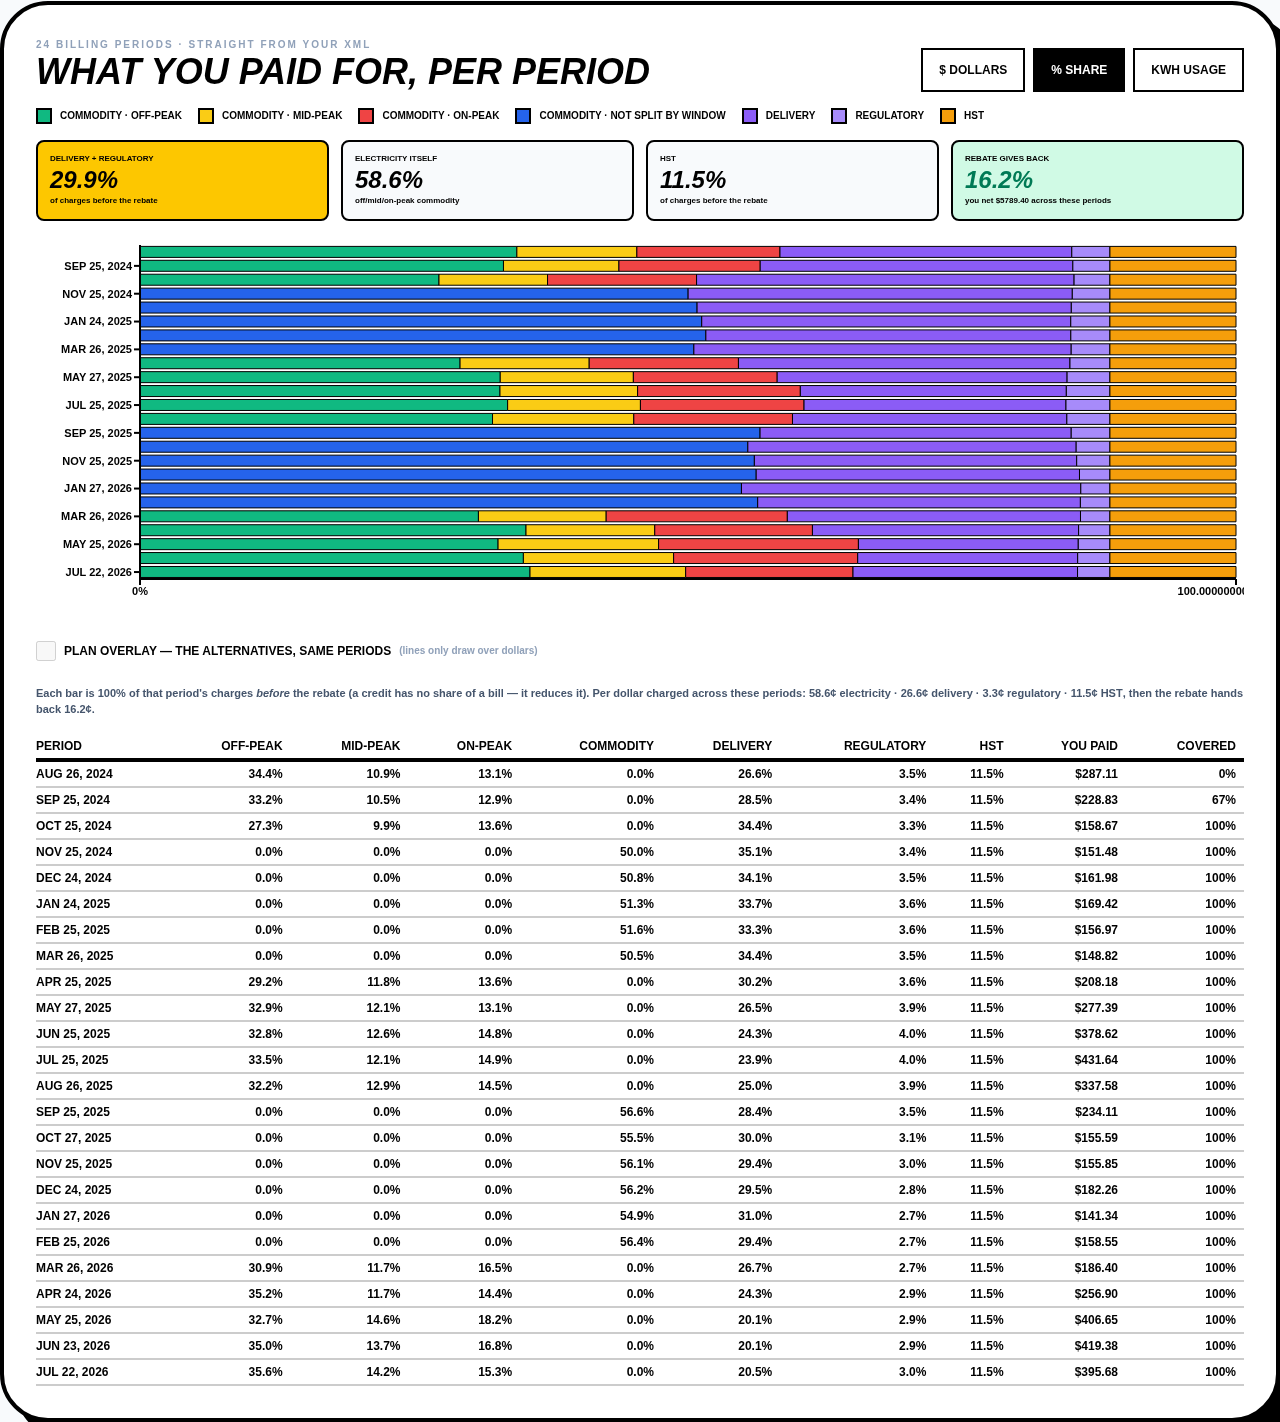
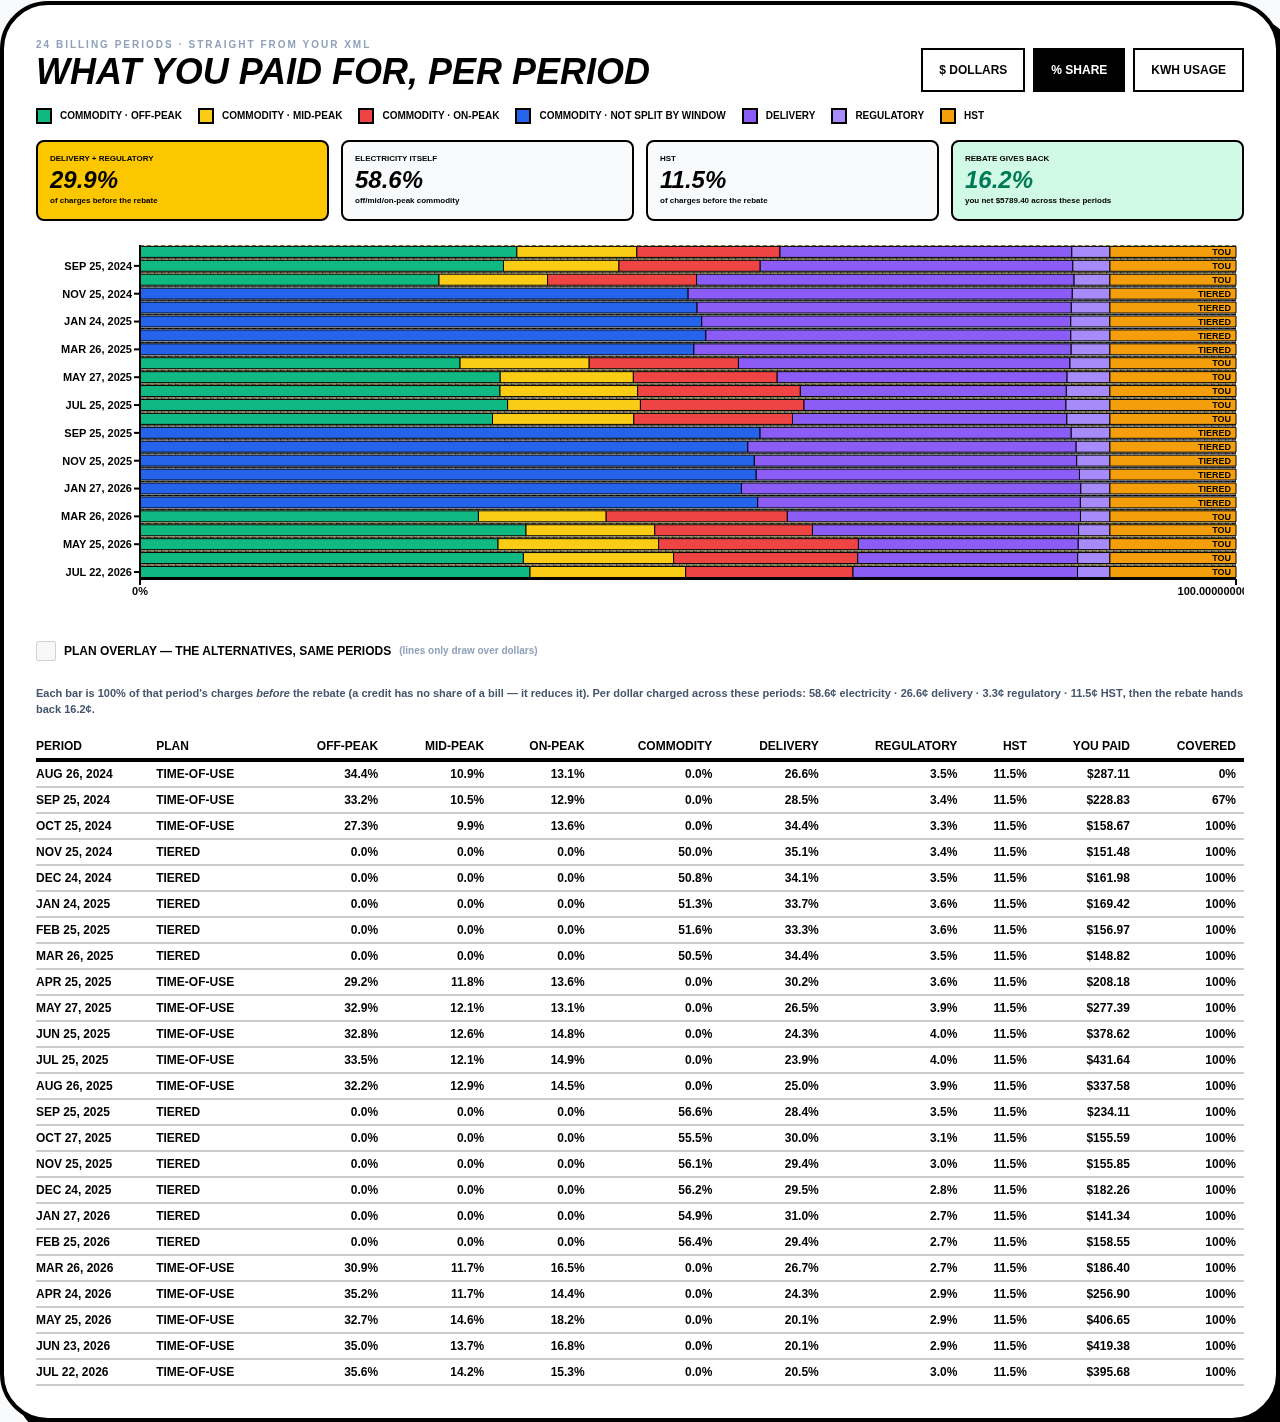
docs(evidence): Wave O — 66/66 re-run against 59a0954 (Wave P bands + delta polish)
Screenshots and both deployed verification JSONs refreshed on the stack as
it now stands: 33/33 on the 3-period export and 33/33 on the 24-period one,
after Wave P's plan-type bands (#33) landed on this chart and the
delta-table headers/scroll note (#34) merged.

wave-o-notes.md records the sequence, the 825/825 suite, and both deploy
points (e0a0efa, then 59a0954).

diff --git a/evidence/wave-o-notes.md b/evidence/wave-o-notes.md
@@ -154,16 +154,29 @@ bill to draw.
    `reconcileBillingPeriods` still use `planCostFor` — pre-existing, out of
    scope here, filed as its own card.
 
+## What landed on top of this wave, after it merged
+
+Two follow-ups went in against the same chart, both re-verified here:
+
+- **PR #33 — Wave P slice 5**: the plan-type timeline's period bands and a
+  `Plan` column drawn onto this stacked chart (the overlay Wave P's notes
+  deferred to Wave O). `MoneyStackedChart` / `MoneySection` gained the band
+  props; the slice set, toggles and key above are unchanged.
+- **PR #34 — delta-table polish**: headers now name only the destination
+  period (`Δ → Jun 23, 2026`, ~15% narrower) and a note appears past 6
+  columns, because the deployed 24-period screenshot showed the right-hand
+  columns cut off with nothing to say they existed.
+
 ## Gates run locally
 
 | Gate | Result |
 |---|---|
 | `npm run lint` / `npm run typecheck` | clean |
-| `npm run test` | **820 / 820** (48 files) on the tree rebased onto `main` (Wave P + Wave EV-2 included) |
+| `npm run test` | **825 / 825** (48 files) on `main` after Wave P's slice-5 overlay (#33) and the delta-table polish (#34) landed |
 | `npm run build` | ok (`sw.js` VERSION restored to `oeo-v1-local` afterwards) |
 | `evidence/wave-o-verify.cjs` on the 3-period Oakville XML | **33 / 33** (re-run on the rebased build) |
 | `evidence/wave-o-verify.cjs -long` on the 24-period export | **33 / 33** (re-run on the rebased build) |
-| **deployed** — `WAVE_O_BASE_URL=http://10.10.11.110:3939/`, both files | **33 / 33** + **33 / 33** (`wave-o-verification-deployed.json`, `wave-o-verification-long-deployed.json`), stack at `e0a0efa` |
+| **deployed** — `WAVE_O_BASE_URL=http://10.10.11.110:3939/`, both files, twice | **33 / 33** + **33 / 33** at `e0a0efa`, and **33 / 33** + **33 / 33** again at `59a0954` (with Wave P's plan-type bands on this chart and the delta-table polish) |
 | 390 × 844 mobile pass | included above: 0 px page overflow, 44 px toggles, charts/tables scroll inside their own boxes |
 | CI | **cannot start jobs, repo-wide and pre-existing**: every run on `main` and on every branch finishes in 3–5 s with all jobs failed and *zero steps* (e.g. run 37724113959, `E2E Smoke` / `Frontend` / `Python`, `steps: []`). Local gates above are the evidence, as for Waves L/P. |
 
